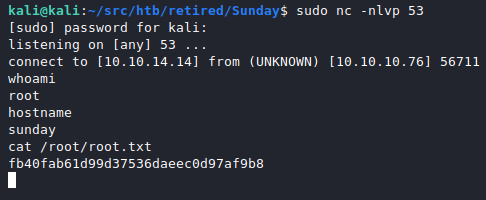
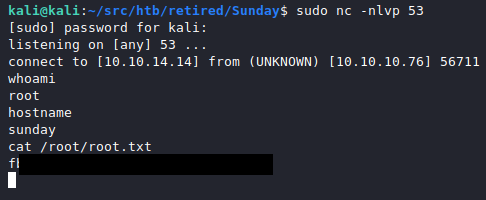
hide flags, fix mistake

Changed region(s): [[0.0309, 0.75, 0.5864, 0.9]]

diff --git a/content/oscp-prep/htb-sunday.md b/content/oscp-prep/htb-sunday.md
@@ -92,7 +92,7 @@ bruteforce passwords and after a while sunny's password was revealed in rockyou:
 
 Sunny could run `/root/troll` via sudo, but it doesn't look exploitable at a
 glance, he's even not able to stat that file and read perms. 
-Also sunny has access to unusual dir `/backup` with a file that claimed to be
+Also sunny has access to unusual `/backup` dir with a file that claimed to be
 backup of `/etc/shadow`:
 <pre>
 sunny@sunday:~$ cat /backup/shadow.backup
